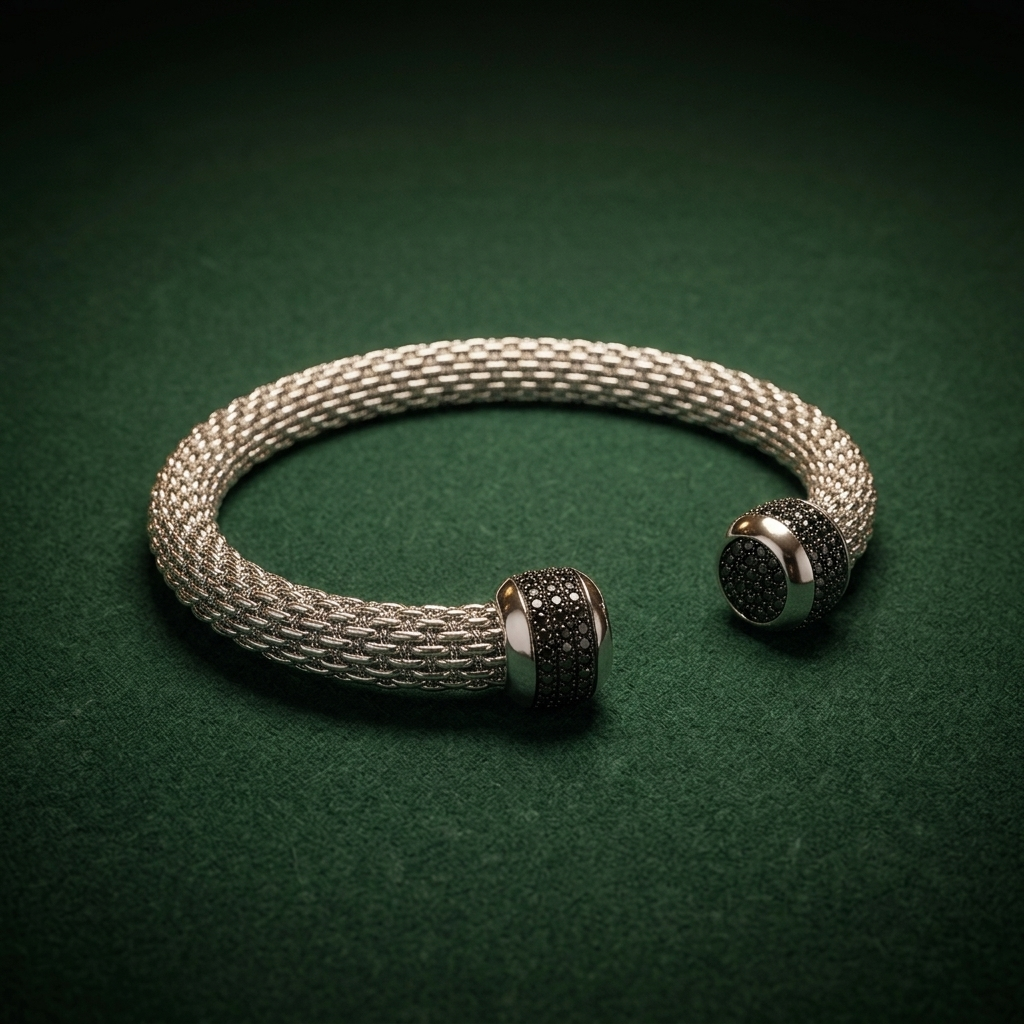
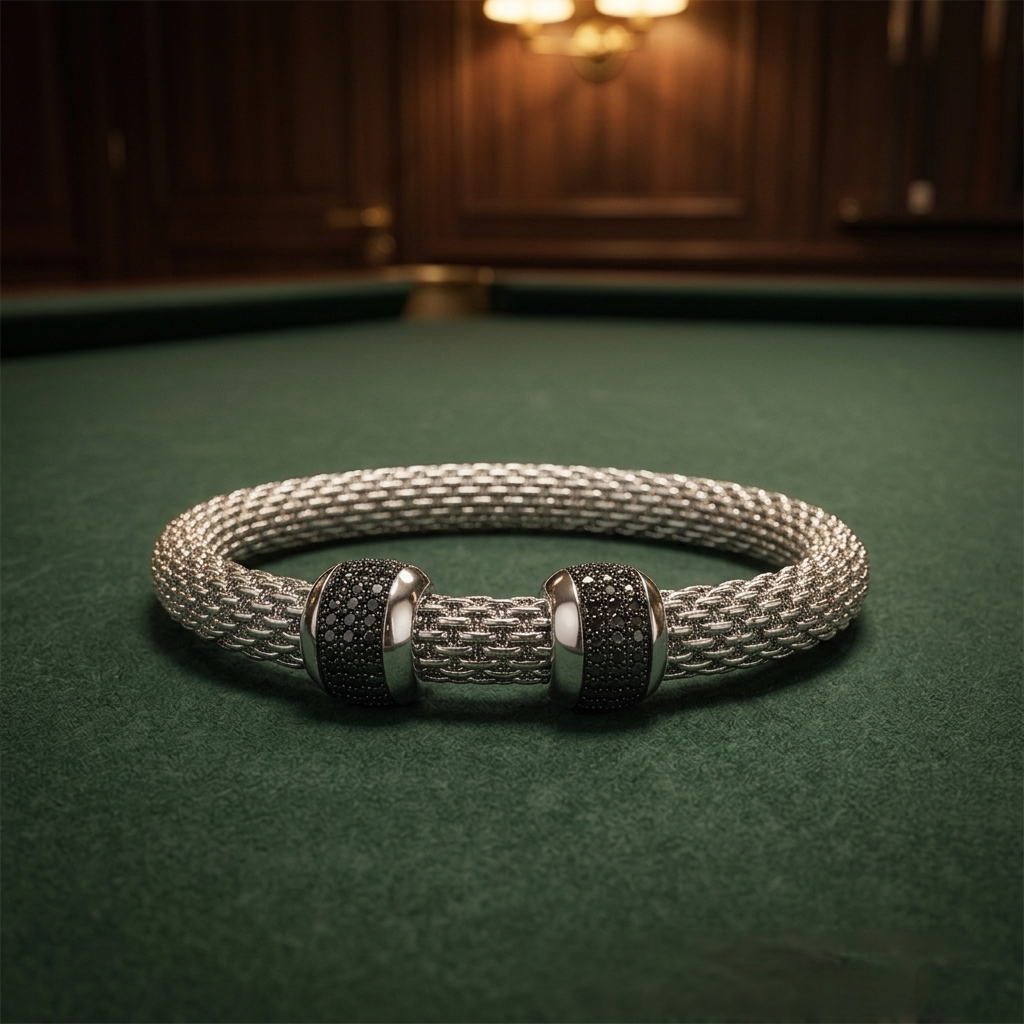
auto-commit for 93f5853d-366c-4392-a868-2aa6b831f205

diff --git a/backend/scripts/generate_midweek_v4.py b/backend/scripts/generate_midweek_v4.py
@@ -1,0 +1,242 @@
+"""
+MIDWEEK v4 — final corrected design lock.
+
+CLOSED slide-on bangle (continuous silver mesh loop, NO opening).
+EXACTLY TWO black-diamond pavé barrel sections, BOTH on the FRONT of the
+bangle, sitting close together on the same quadrant. The rest of the
+bangle (back + sides) is plain polished silver mesh — NO diamonds, NO
+extra pavé.
+
+Identity reference: the user's authentic hero (01_hero.png).
+
+Regen all 6 AI shots:
+  02_single_felt
+  03_on_wrist_solo
+  04_on_wrist_stack
+  05_macro
+  06_side_profile
+  07_lifestyle_table
+"""
+from __future__ import annotations
+
+import asyncio
+import base64
+import os
+import sys
+import uuid
+from pathlib import Path
+
+from dotenv import load_dotenv
+from emergentintegrations.llm.chat import LlmChat, UserMessage, ImageContent
+
+load_dotenv("/app/backend/.env")
+
+# Use the authentic hero photo as the only reference. It contains the correct
+# design (closed loop + 2 front pavé barrels per bangle).
+REF = Path("/app/frontend/public/midweek/01_hero.png")
+OUT_DIR = Path("/app/frontend/public/midweek")
+
+PRODUCT_LOCK = (
+    "MIDWEEK BANGLE — final design lock (use the reference image as the "
+    "ground truth for cuff design):\n\n"
+    "FORM: CLOSED SLIDE-ON BANGLE — a CONTINUOUS LOOP of polished sterling "
+    "silver mesh with NO opening, NO gap, NO C-shape. The wearer slides it "
+    "over the hand onto the wrist. The loop is closed all the way around.\n\n"
+    "PAVÉ — EXACTLY TWO black-diamond barrels, BOTH ON THE FRONT:\n"
+    "  • The two pavé barrels sit CLOSE TOGETHER on the SAME front-facing "
+    "quadrant of the bangle (roughly 30–60 degrees apart).\n"
+    "  • Each barrel is a small cylindrical pavé station encircling the "
+    "weave at that point, set with tightly packed black diamonds and "
+    "flanked by polished silver bevels.\n"
+    "  • TOTAL: TWO pavé barrels per bangle, BOTH on the FRONT. NEVER more, "
+    "NEVER fewer. NEVER any pavé on the back or sides of the bangle.\n\n"
+    "BODY: continuous polished sterling silver woven mesh. The back and "
+    "sides of the bangle are PLAIN SILVER MESH — no diamonds, no extra "
+    "collars, no pavé anywhere except the two front barrels.\n\n"
+    "MATERIAL: bright polished sterling silver. NO yellow gold, NO rose "
+    "gold, NO gunmetal, NO open ends, NO C-shape, NO opening of any kind."
+)
+
+NEGATIVE = (
+    "FAIL CRITERIA: more than 2 pavé sections per bangle, ANY pavé on the "
+    "back or sides of the bangle, an OPEN C-SHAPE cuff with a visible gap, "
+    "diamonds wrapping all the way around, additional collars, beads or "
+    "stations along the body. Also FAIL: yellow/rose gold, gunmetal, logos, "
+    "text, watermarks, AI shimmer flares."
+)
+
+GLOBAL_STYLE = (
+    "MIDWEEK visual identity: dark billiard-room atmosphere, warm tungsten "
+    "lighting, late-night luxury, quiet masculine confidence — successful "
+    "people disappearing for a few quiet hours midweek.\n\n"
+    "Cinematic shadows, controlled specular highlights on the silver weave, "
+    "preserved silver realism, preserved woven texture detail. Editorial "
+    "men's luxury campaign quality, 8K photoreal."
+)
+
+SHOTS = [
+    {
+        "slug": "02_single_felt",
+        "title": "ANGLE 2 — SINGLE HERO OBJECT",
+        "prompt": (
+            "Single MIDWEEK closed-loop bangle isolated alone on deep GREEN "
+            "BILLIARD FELT — no other props in frame. Low 3/4 camera angle "
+            "slightly above the felt. The bangle's TWO front pavé barrels are "
+            "rotated TOWARD the camera so both are clearly readable. The "
+            "back of the bangle (plain silver mesh, no diamonds) curves away "
+            "into shadow. Tight composition, bangle dominates frame.\n\n"
+            "RULE: ONE closed bangle, EXACTLY TWO front pavé barrels, plain "
+            "silver back. NO opening. NO C-shape."
+        ),
+    },
+    {
+        "slug": "03_on_wrist_solo",
+        "title": "ANGLE 3 — ON-WRIST EDITORIAL (BLACK MODEL, ONE BANGLE)",
+        "prompt": (
+            "Editorial on-wrist photograph of a BLACK MAN wearing ONE "
+            "MIDWEEK closed-loop slide-on bangle. The bangle has slid over "
+            "the hand and rests on the wrist as a CONTINUOUS LOOP. The two "
+            "front pavé barrels sit on the FRONT/TOP of the wrist (visible "
+            "to camera), close together. The back of the bangle wraps under "
+            "the wrist out of view (plain silver mesh, no diamonds visible). "
+            "Wardrobe: NAVY or BLACK fine wool sleeve. Posture relaxed, "
+            "natural, worn — not displayed. Warm tungsten lounge background, "
+            "softly out of focus. Single warm rim-light on the silver weave.\n\n"
+            "RULE: ONE bangle, closed loop, exactly 2 front pavé barrels "
+            "visible on top of the wrist. NO opening. Subject must be a "
+            "Black man in navy or black wardrobe."
+        ),
+    },
+    {
+        "slug": "04_on_wrist_stack",
+        "title": "ANGLE 4 — DOUBLE STACK ON WRIST (BLACK MODEL, TWO BANGLES)",
+        "prompt": (
+            "Editorial on-wrist photograph of a BLACK MAN wearing TWO "
+            "MIDWEEK closed-loop bangles stacked together on the same wrist. "
+            "Each bangle is a continuous loop. The two bangles sit close, "
+            "minimal spacing, intentionally stacked. Each bangle's TWO front "
+            "pavé barrels sit on the front of the wrist (visible to camera) "
+            "— a total of FOUR pavé barrels visible across the two bangles, "
+            "all on the front. Backs of both bangles wrap under the wrist "
+            "out of view. Wrist relaxed on the edge of a deep GREEN BILLIARD "
+            "TABLE; wooden rail visible. Wardrobe: navy or black wool "
+            "sleeve. Warm tungsten lounge lighting, softly bokeh'd.\n\n"
+            "RULE: EXACTLY TWO closed-loop bangles. Each bangle has exactly "
+            "2 front pavé barrels. NEVER any pavé on the back or sides of "
+            "either bangle. NO openings. No watch, no other jewelry."
+        ),
+    },
+    {
+        "slug": "05_macro",
+        "title": "ANGLE 5 — MACRO DETAIL",
+        "prompt": (
+            "Extreme macro detail of ONE BLACK-DIAMOND PAVÉ BARREL on a "
+            "MIDWEEK closed-loop bangle, shown transitioning into the "
+            "polished sterling silver woven body on each side. Sharp focus "
+            "on the pavé barrel and the polished silver bevels flanking it; "
+            "mesh weave runs out of frame on both sides (continuous silver, "
+            "no diamonds visible elsewhere). Very shallow depth of field, "
+            "warm tungsten reflection. Shows craftsmanship — pavé density, "
+            "bevel finishing, weave texture.\n\n"
+            "RULE: ONE pavé barrel in focus. The flanking weave is plain "
+            "silver. NO additional pavé visible anywhere in frame."
+        ),
+    },
+    {
+        "slug": "06_side_profile",
+        "title": "ANGLE 6 — SIDE PROFILE",
+        "prompt": (
+            "Low side-angle photograph of a single MIDWEEK closed-loop "
+            "bangle on a deep walnut or black surface. The CLOSED CONTINUOUS "
+            "LOOP must be unmistakable — viewer immediately reads this as a "
+            "slide-on bangle, NOT a C-shape cuff. The TWO front pavé barrels "
+            "sit on the upper edge of the loop (closest to camera), close "
+            "together. The back/bottom curve of the loop is plain polished "
+            "silver mesh, no diamonds. Side rim-light skims the weave; the "
+            "inner curve casts deep ambient shadow. Shows wearability "
+            "clarity: full closed circumference, weave depth, pavé "
+            "construction.\n\n"
+            "RULE: ONE closed bangle, exactly 2 front pavé barrels, plain "
+            "silver everywhere else. NO opening, NO gap, NO C-shape."
+        ),
+    },
+    {
+        "slug": "07_lifestyle_table",
+        "title": "ANGLE 7 — LIFESTYLE TABLE",
+        "prompt": (
+            "Single MIDWEEK closed-loop bangle resting alone on dark GREEN "
+            "BILLIARD FELT. Partially out of focus in the same frame: a "
+            "wooden CUE STICK laid diagonally, a CRYSTAL WHISKEY GLASS "
+            "catching warm tungsten reflection, and a SOFTLY BLURRED "
+            "billiard ball in the distance. The bangle is the BRIGHTEST "
+            "OBJECT — props recede into deep shadow. The TWO front pavé "
+            "barrels are visible on the front of the bangle, close "
+            "together. The back of the loop curves away into shadow.\n\n"
+            "RULE: ONE closed-loop bangle, exactly 2 front pavé barrels, "
+            "plain silver back. No opening. Props supporting, not crowding."
+        ),
+    },
+]
+
+
+async def generate_one(api_key: str, ref_b64: str, shot: dict) -> bool:
+    out_path = OUT_DIR / f"{shot['slug']}.png"
+    prompt = (
+        f"{PRODUCT_LOCK}\n\n"
+        f"NEGATIVE: {NEGATIVE}\n\n"
+        f"SHOT — {shot['title']}:\n{shot['prompt']}\n\n"
+        f"GLOBAL STYLE: {GLOBAL_STYLE}"
+    )
+
+    chat = LlmChat(
+        api_key=api_key,
+        session_id=f"midweek-v4-{shot['slug']}-{uuid.uuid4().hex[:8]}",
+        system_message=(
+            "You are a luxury men's editorial campaign photographer. The "
+            "MIDWEEK product is a CLOSED-LOOP slide-on bangle (continuous, "
+            "no opening) with EXACTLY TWO black-diamond pavé barrels on the "
+            "FRONT of the loop, close together. The back and sides of the "
+            "loop are plain polished silver mesh. Match the reference image "
+            "design exactly. Never render an open C-shape cuff. Never add "
+            "pavé to the back or sides. Never add a third or fourth station."
+        ),
+    )
+    chat.with_model("gemini", "gemini-3.1-flash-image-preview").with_params(
+        modalities=["image", "text"]
+    )
+
+    msg = UserMessage(text=prompt, file_contents=[ImageContent(ref_b64)])
+    text, images = await chat.send_message_multimodal_response(msg)
+
+    if not images:
+        print(f"[FAIL] {shot['slug']} — no image. text={(text or '')[:200]!r}")
+        return False
+
+    out_path.write_bytes(base64.b64decode(images[0]["data"]))
+    print(f"[ok]   {shot['slug']} -> {out_path} ({out_path.stat().st_size//1024} KB)")
+    return True
+
+
+async def main(slugs: list[str] | None = None) -> int:
+    api_key = os.getenv("EMERGENT_LLM_KEY")
+    if not api_key: print("EMERGENT_LLM_KEY missing", file=sys.stderr); return 1
+    if not REF.exists(): print(f"Reference missing: {REF}", file=sys.stderr); return 2
+
+    ref_b64 = base64.b64encode(REF.read_bytes()).decode("utf-8")
+    print(f"Loaded reference: {REF.stat().st_size//1024} KB")
+
+    todo = [s for s in SHOTS if (slugs is None or s["slug"] in slugs)]
+    for shot in todo:
+        try:
+            await generate_one(api_key, ref_b64, shot)
+        except Exception as e:  # noqa: BLE001
+            print(f"[ERR] {shot['slug']} — {type(e).__name__}: {e}")
+            if "Budget" in str(e) or "BadRequest" in str(e):
+                print("[stop] budget cap likely; halting.")
+                break
+    return 0
+
+
+if __name__ == "__main__":
+    args = sys.argv[1:] or None
+    sys.exit(asyncio.run(main(args)))
